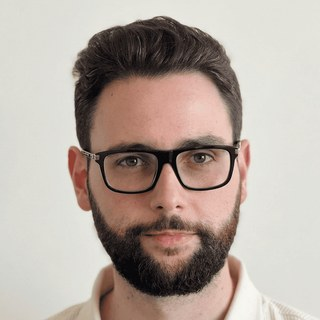
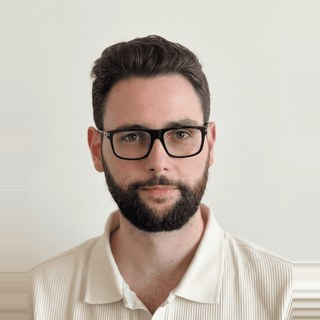
Foto com menos zoom e descrição de Vítor atualizada (UNIFESP, pós-doutorado)
Claude-Session: https://claude.ai/code/session_01A4iueVuZt6bP9iSHGPY1T9

diff --git a/index.html b/index.html
@@ -497,7 +497,7 @@ footer a { color: var(--on-dark); }
           <img class="avatar" src="assets/vitor-rocco-torrez.jpg" alt="Foto de Vítor Rocco Torrez" width="128" height="128" loading="lazy">
           <h3>Vítor Rocco Torrez</h3>
           <p class="role">Diretor de Ensino</p>
-          <p>Médico psiquiatra, doutor em Bioquímica e pós-doutor em Educação em Ciências (UFRGS).</p>
+          <p>Médico psiquiatra do Departamento de Saúde do(a) Trabalhador(a) da UNIFESP. Doutor em Bioquímica, com pós-doutorado em Educação em Ciências (UFRGS).</p>
         </article>
       </div>
     </div>

diff --git a/preview.html b/preview.html
@@ -480,7 +480,7 @@ footer a { color: var(--on-dark); }
           <img class="avatar" src="assets/vitor-rocco-torrez.jpg" alt="Foto de Vítor Rocco Torrez" width="128" height="128" loading="lazy">
           <h3>Vítor Rocco Torrez</h3>
           <p class="role">Diretor de Ensino</p>
-          <p>Médico psiquiatra, doutor em Bioquímica e pós-doutor em Educação em Ciências (UFRGS).</p>
+          <p>Médico psiquiatra do Departamento de Saúde do(a) Trabalhador(a) da UNIFESP. Doutor em Bioquímica, com pós-doutorado em Educação em Ciências (UFRGS).</p>
         </article>
       </div>
     </div>

diff --git a/src/page.html b/src/page.html
@@ -480,7 +480,7 @@ footer a { color: var(--on-dark); }
           <img class="avatar" src="assets/vitor-rocco-torrez.jpg" alt="Foto de Vítor Rocco Torrez" width="128" height="128" loading="lazy">
           <h3>Vítor Rocco Torrez</h3>
           <p class="role">Diretor de Ensino</p>
-          <p>Médico psiquiatra, doutor em Bioquímica e pós-doutor em Educação em Ciências (UFRGS).</p>
+          <p>Médico psiquiatra do Departamento de Saúde do(a) Trabalhador(a) da UNIFESP. Doutor em Bioquímica, com pós-doutorado em Educação em Ciências (UFRGS).</p>
         </article>
       </div>
     </div>
